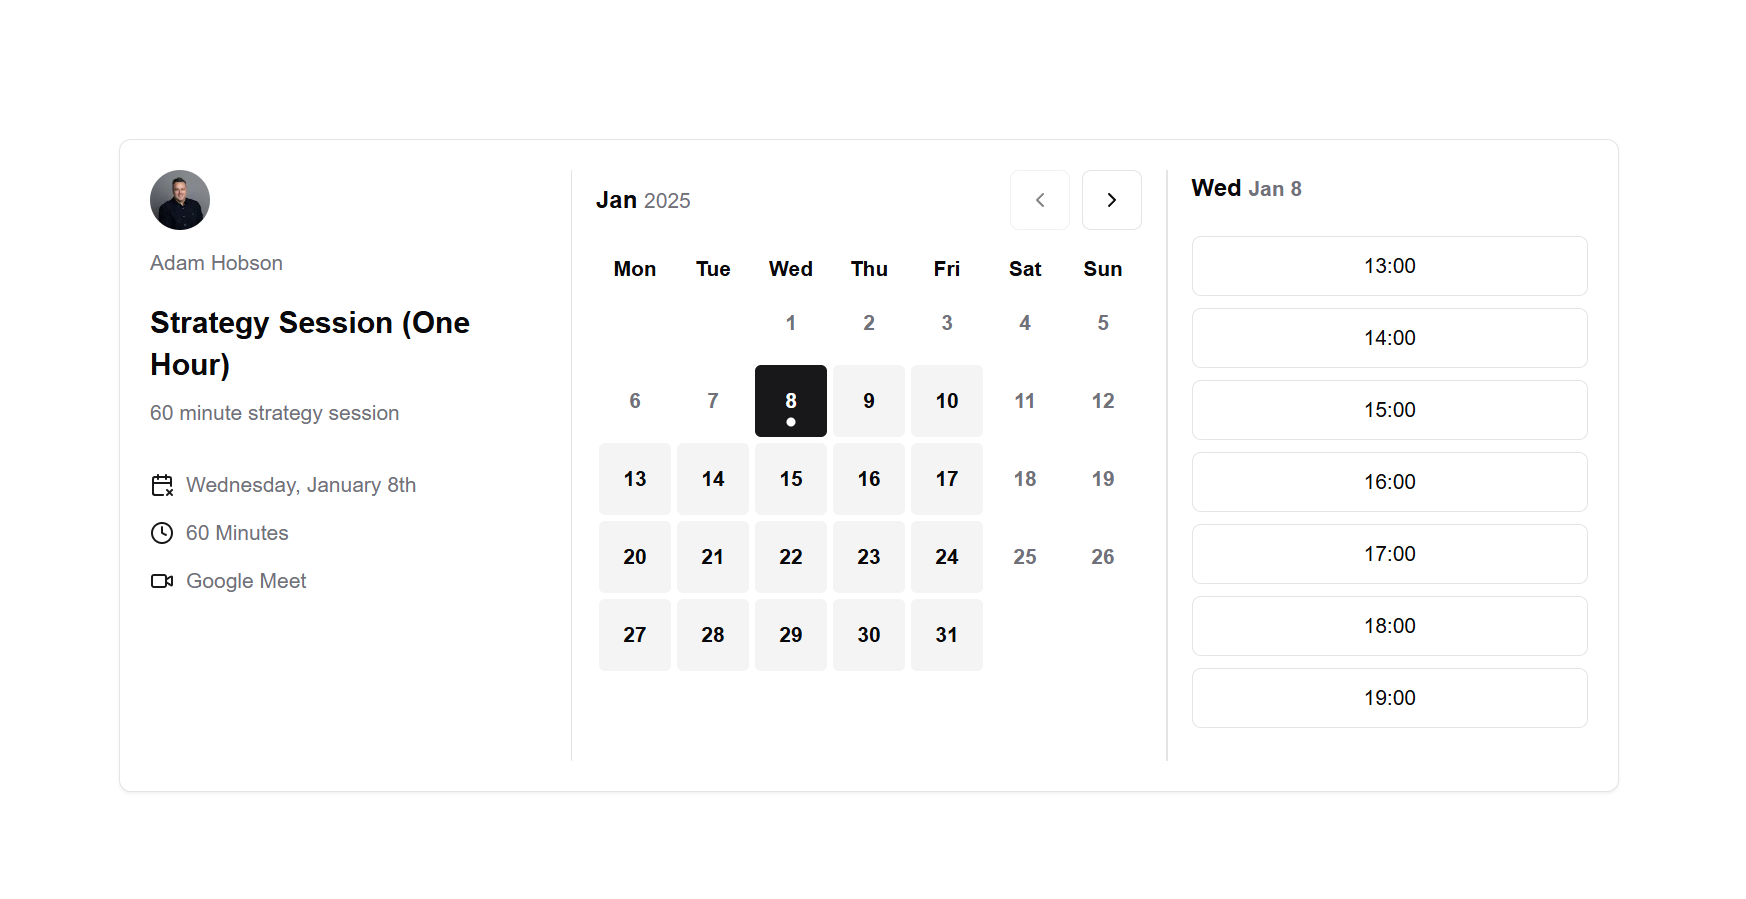
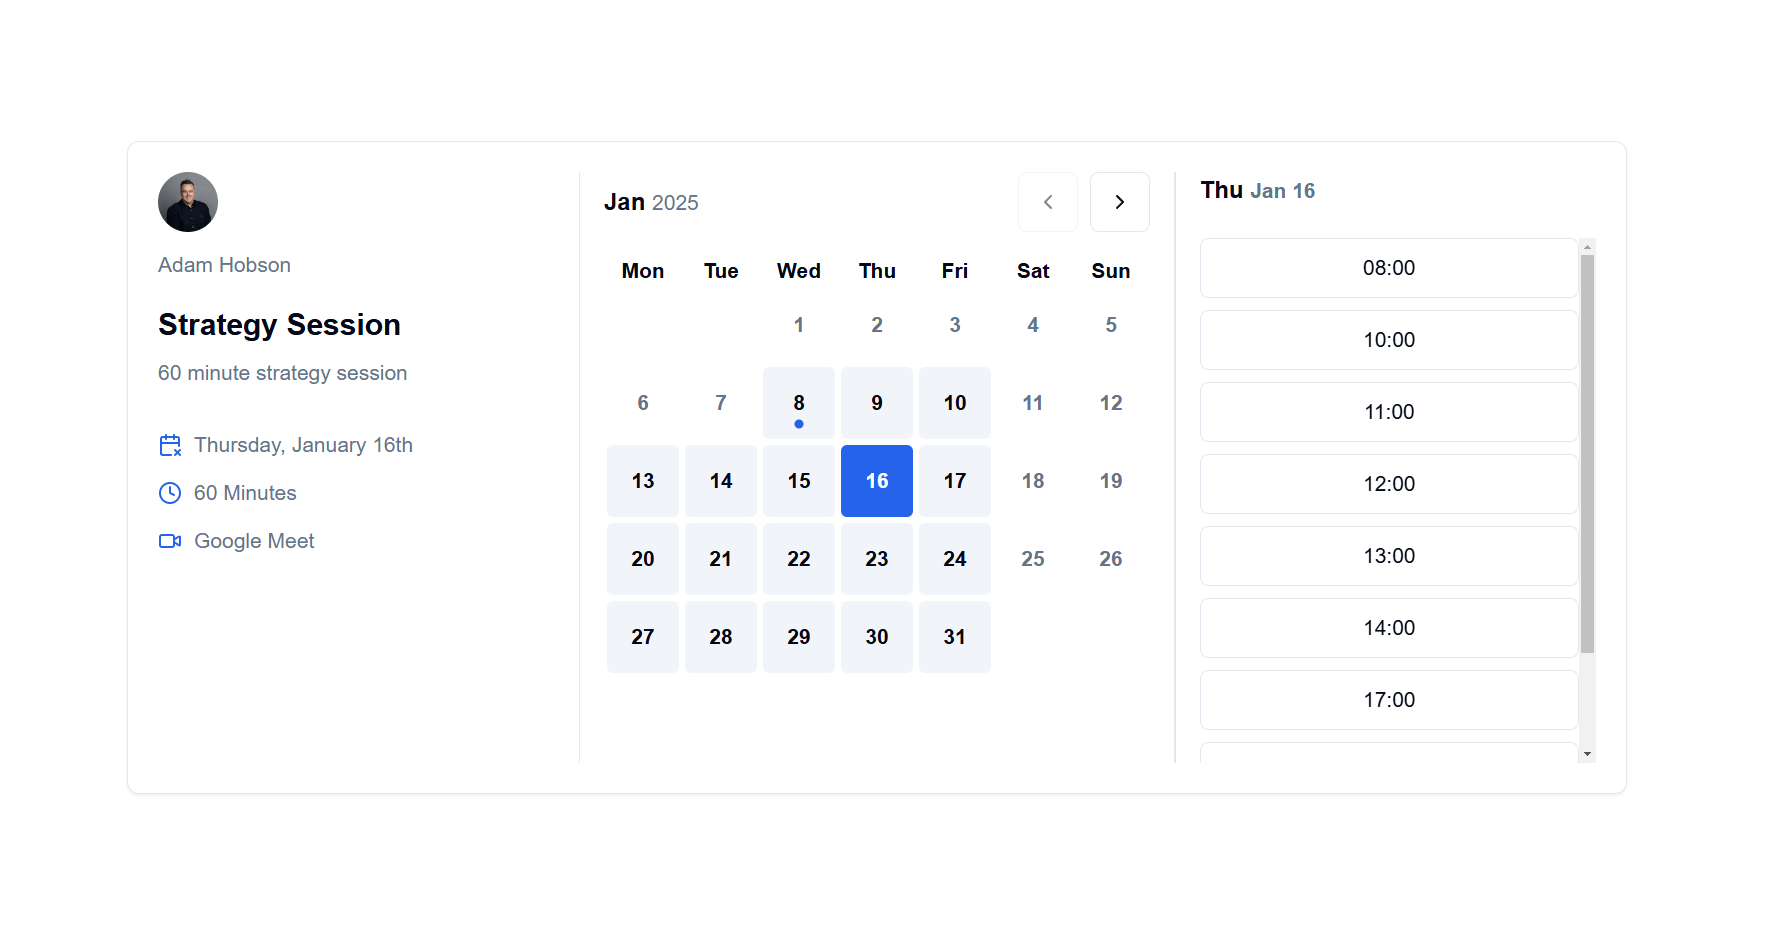
Minor UI update

diff --git a/app/components/DashboardLinks.tsx b/app/components/DashboardLinks.tsx
@@ -1,58 +1,73 @@
-'use client'
+"use client";
 
 import { cn } from "@/lib/utils";
-import { CalendarCheck, HomeIcon, LucideProps, SettingsIcon, Users2 } from "lucide-react";
+import {
+  CalendarCheck,
+  HomeIcon,
+  LucideProps,
+  SettingsIcon,
+  Users2,
+} from "lucide-react";
 import Link from "next/link";
 import { usePathname } from "next/navigation";
 import { ForwardRefExoticComponent } from "react";
 import { RefAttributes } from "react";
 
 interface iAppProps {
-    id: number;
-    name: string;
-    href: string;
-    icon: ForwardRefExoticComponent<Omit<LucideProps, "ref"> & RefAttributes<SVGSVGElement>>;
+  id: number;
+  name: string;
+  href: string;
+  icon: ForwardRefExoticComponent<
+    Omit<LucideProps, "ref"> & RefAttributes<SVGSVGElement>
+  >;
 }
 
 export const dashboardLinks: iAppProps[] = [
-    {
-        id: 0,
-        name: 'Event Types',
-        href: '/dashboard',
-        icon: HomeIcon
-    },
-    {
-        id: 1,
-        name: "Meetings",
-        href: '/dashboard/meetings',
-        icon: Users2,
-     },
-     {
-        id: 2,
-        name: "Availability",
-        href: '/dashboard/availability',
-        icon: CalendarCheck,
-     },
-     {
-        id: 3,
-        name: "Settings",
-        href: '/dashboard/settings',
-        icon: SettingsIcon,
-     }
-]
+  {
+    id: 0,
+    name: "Event Types",
+    href: "/dashboard",
+    icon: HomeIcon,
+  },
+  {
+    id: 1,
+    name: "Meetings",
+    href: "/dashboard/meetings",
+    icon: Users2,
+  },
+  {
+    id: 2,
+    name: "Availability",
+    href: "/dashboard/availability",
+    icon: CalendarCheck,
+  },
+  {
+    id: 3,
+    name: "Settings",
+    href: "/dashboard/settings",
+    icon: SettingsIcon,
+  },
+];
 
 export function DashboardLinks() {
-    const pathname = usePathname();
+  const pathname = usePathname();
   return (
     <>
-        {dashboardLinks.map((link) => (
-            <Link className={cn(
-                pathname === link.href ? 'text-primary bg-primary/10' : 'text-muted-foreground hover:text-foreground', "flex items-center gap-6 rounded-md px-2 py-1.5 hover:bg-accent transition-colors duration-200 ease-in-out"
-            )}href={link.href} key={link.id}>
-                <link.icon className="size-4" />
-                <span className="text-sm">{link.name}</span>
-            </Link>
-        ))}
+      {dashboardLinks.map((link) => (
+        <Link
+          className={cn(
+            pathname === link.href
+              ? "text-primary bg-primary/10"
+              : "text-muted-foreground hover:text-foreground",
+            "flex items-center gap-6 rounded-md px-2 py-1.5 hover:bg-accent transition-colors duration-200 ease-in-out mt-2"
+          )}
+          href={link.href}
+          key={link.id}
+        >
+          <link.icon className="size-4" />
+          <span className="text-md">{link.name}</span>
+        </Link>
+      ))}
     </>
-  )
+  );
 }

diff --git a/app/globals.css b/app/globals.css
@@ -9,24 +9,24 @@ body {
 @layer base {
   :root {
     --background: 0 0% 100%;
-    --foreground: 240 10% 3.9%;
+    --foreground: 222.2 84% 4.9%;
     --card: 0 0% 100%;
-    --card-foreground: 240 10% 3.9%;
+    --card-foreground: 222.2 84% 4.9%;
     --popover: 0 0% 100%;
-    --popover-foreground: 240 10% 3.9%;
-    --primary: 240 5.9% 10%;
-    --primary-foreground: 0 0% 98%;
-    --secondary: 240 4.8% 95.9%;
-    --secondary-foreground: 240 5.9% 10%;
-    --muted: 240 4.8% 95.9%;
-    --muted-foreground: 240 3.8% 46.1%;
-    --accent: 240 4.8% 95.9%;
-    --accent-foreground: 240 5.9% 10%;
+    --popover-foreground: 222.2 84% 4.9%;
+    --primary: 221.2 83.2% 53.3%;
+    --primary-foreground: 210 40% 98%;
+    --secondary: 210 40% 96.1%;
+    --secondary-foreground: 222.2 47.4% 11.2%;
+    --muted: 210 40% 96.1%;
+    --muted-foreground: 215.4 16.3% 46.9%;
+    --accent: 210 40% 96.1%;
+    --accent-foreground: 222.2 47.4% 11.2%;
     --destructive: 0 84.2% 60.2%;
-    --destructive-foreground: 0 0% 98%;
-    --border: 240 5.9% 90%;
-    --input: 240 5.9% 90%;
-    --ring: 240 5.9% 10%;
+    --destructive-foreground: 210 40% 98%;
+    --border: 214.3 31.8% 91.4%;
+    --input: 214.3 31.8% 91.4%;
+    --ring: 221.2 83.2% 53.3%;
     --radius: 0.5rem;
     --chart-1: 12 76% 61%;
     --chart-2: 173 58% 39%;
@@ -36,25 +36,25 @@ body {
   }
 
   .dark {
-    --background: 240 10% 3.9%;
-    --foreground: 0 0% 98%;
-    --card: 240 10% 3.9%;
-    --card-foreground: 0 0% 98%;
-    --popover: 240 10% 3.9%;
-    --popover-foreground: 0 0% 98%;
-    --primary: 0 0% 98%;
-    --primary-foreground: 240 5.9% 10%;
-    --secondary: 240 3.7% 15.9%;
-    --secondary-foreground: 0 0% 98%;
-    --muted: 240 3.7% 15.9%;
-    --muted-foreground: 240 5% 64.9%;
-    --accent: 240 3.7% 15.9%;
-    --accent-foreground: 0 0% 98%;
+    --background: 222.2 84% 4.9%;
+    --foreground: 210 40% 98%;
+    --card: 222.2 84% 4.9%;
+    --card-foreground: 210 40% 98%;
+    --popover: 222.2 84% 4.9%;
+    --popover-foreground: 210 40% 98%;
+    --primary: 217.2 91.2% 59.8%;
+    --primary-foreground: 222.2 47.4% 11.2%;
+    --secondary: 217.2 32.6% 17.5%;
+    --secondary-foreground: 210 40% 98%;
+    --muted: 217.2 32.6% 17.5%;
+    --muted-foreground: 215 20.2% 65.1%;
+    --accent: 217.2 32.6% 17.5%;
+    --accent-foreground: 210 40% 98%;
     --destructive: 0 62.8% 30.6%;
-    --destructive-foreground: 0 0% 98%;
-    --border: 240 3.7% 15.9%;
-    --input: 240 3.7% 15.9%;
-    --ring: 240 4.9% 83.9%;
+    --destructive-foreground: 210 40% 98%;
+    --border: 217.2 32.6% 17.5%;
+    --input: 217.2 32.6% 17.5%;
+    --ring: 224.3 76.3% 48%;
     --chart-1: 220 70% 50%;
     --chart-2: 160 60% 45%;
     --chart-3: 30 80% 55%;

diff --git a/app/components/Features.tsx b/app/components/Features.tsx
@@ -2,34 +2,34 @@ import { CloudRain } from "lucide-react";
 
 const features = [
   {
-    name: "Sign up for free",
+    name: "Free in Beta",
     description:
-      "Lorem ipsum dolor sit amet, consetetur sadipscing elitr, sed diam nonumy eirmod tempor invidunt ut labore et dolore magna.",
+      "mycalendar is free while in Beta. No credit card required. When we launch, you will get the opportunity to use mycalendar free forever.",
     icon: CloudRain,
   },
   {
-    name: "Balzing fast",
+    name: "Blazing fast",
     description:
-      "Lorem ipsum dolor sit amet, consetetur sadipscing elitr, sed diam nonumy eirmod tempor invidunt ut labore et dolore magna.",
+      "Schedule meetings in seconds, not minutes. Our streamlined interface eliminates back-and-forth emails and lets your clients book instantly based on your availability.",
     icon: CloudRain,
   },
   {
     name: "Super secure with Nylas",
     description:
-      "Lorem ipsum dolor sit amet, consetetur sadipscing elitr, sed diam nonumy eirmod tempor invidunt ut labore et dolore magna.",
+      "Your calendar data is protected by enterprise-grade security. Powered by Nylas, we use OAuth 2.0 and never store your credentials, ensuring your information stays private.",
     icon: CloudRain,
   },
   {
     name: "Easy to use",
     description:
-      "Lorem ipsum dolor sit amet, consetetur sadipscing elitr, sed diam nonumy eirmod tempor invidunt ut labore et dolore magna.",
+      "Share your booking link and let clients schedule meetings that work for everyone. Automatic timezone detection and calendar sync make scheduling effortless.",
     icon: CloudRain,
   },
 ];
 
 export function Features() {
   return (
-    <div className="py-24 ">
+    <div className="py-12 ">
       <div className="max-w-2xl mx-auto lg:text-center">
         <p className="font-semibold leading-7 text-primary">Schedule faster</p>
         <h1 className="mt-2 text-3xl font-bold tracking-tight sm:text-4xl">

diff --git a/app/layout.tsx b/app/layout.tsx
@@ -19,8 +19,8 @@ const geistMono = localFont({
 });
 
 export const metadata: Metadata = {
-  title: "Create Next App",
-  description: "Generated by create next app",
+  title: "mycalendar - Super Simple Scheduling",
+  description: "Calendar scheduling for busy people",
 };
 
 export default function RootLayout({
@@ -52,12 +52,12 @@ export default function RootLayout({
           disableTransitionOnChange
         >
           <NextSSRPlugin
-          /**
-           * The `extractRouterConfig` will extract **only** the route configs
-           * from the router to prevent additional information from being
-           * leaked to the client. The data passed to the client is the same
-           * as if you were to fetch `/api/uploadthing` directly.
-           */
+            /**
+             * The `extractRouterConfig` will extract **only** the route configs
+             * from the router to prevent additional information from being
+             * leaked to the client. The data passed to the client is the same
+             * as if you were to fetch `/api/uploadthing` directly.
+             */
             routerConfig={extractRouterConfig(ourFileRouter)}
           />
           {children}

diff --git a/app/components/Hero.tsx b/app/components/Hero.tsx
@@ -9,17 +9,17 @@ export function Hero() {
       <div className="relative items-center w-full py-12 lg:py-20">
         <div className="text-center">
           <span className="text-sm text-primary font-medium tracking-tight bg-primary/10 px-4 py-2 rounded-full">
-            Introducing MyCalendar 1.0 🎉
+            Introducing mycalendar 1.0 🎉
           </span>
 
           <h1 className="mt-8 text-4xl sm:text-6xl md:text-7xl lg:text-8xl font-medium leading-none">
-            Scheduling made{" "}
-            <span className="block text-primary">super easy!</span>
+            Super simple <span className="block text-primary">scheduling.</span>
           </h1>
 
           <p className="max-w-xl mx-auto mt-4   lg:text-lg text-muted-foreground ">
-            Scheduling a meeting can be a pain. But we at MyCalendar makes it
-            easy for your clients to schedule meetings with you.
+            Scheduling meetings can be a pain but mycalendar makes it easy.
+            Create an event, share a link and let your clients book times with
+            you.
           </p>
           <div className=" mt-5 mb-12">
             <AuthModal />

diff --git a/app/components/Cta.tsx b/app/components/Cta.tsx
@@ -1,18 +1,18 @@
-import { Button } from "@/components/ui/button";
+import AuthModal from "./AuthModal";
 
 export function CTA() {
   return (
     <div className="mx-auto max-w-7xl sm:px-6 lg:px-8 my-20">
       <div className="relative isolate overflow-hidden  px-6 py-20 text-center sm:rounded-3xl sm:border  sm:px-16 sm:shadow-sm">
         <h2 className="mx-auto max-w-2xl text-3xl font-bold tracking-tight  sm:text-4xl">
-          Start using MyCalendar today!
+          Start using mycalendar today!
         </h2>
         <h3 className="mx-auto mt-6 max-w-xl text-lg leading-8 text-muted-foreground">
-          MyCalendar makes it easy for your clients to scheduale a meeting with
+          mycalendar makes it easy for your clients to scheduale a meeting with
           you clients.
         </h3>
         <div className="mt-8 flex items-center justify-center gap-x-6">
-          <Button>Get Started Today</Button>
+          <AuthModal />
         </div>
         {/* gradient svg */}
         <svg

diff --git a/app/components/AuthModal.tsx b/app/components/AuthModal.tsx
@@ -17,14 +17,14 @@ export default function AuthModal() {
   return (
     <Dialog>
       <DialogTrigger asChild>
-        <Button>Try for Free</Button>
+        <Button>Free while in Beta</Button>
       </DialogTrigger>
       <DialogContent className="sm:max-w-[360px]">
         <DialogTitle className="sr-only">Sign in to MyCalendar</DialogTitle>
         <DialogHeader className="flex flex-row items-center gap-2 justify-center">
           <Image src={Logo} alt="logo" className="size-10" />
           <h4 className="font-semibold text-xl">
-            My<span className="text-primary">Calendar</span>
+            my<span className="text-primary">calendar</span>
           </h4>
         </DialogHeader>
         <div className="flex flex-col my-5 gap-2">

diff --git a/app/components/navbar.tsx b/app/components/navbar.tsx
@@ -10,9 +10,9 @@ export function Navbar() {
   return (
     <div className="flex justify-between items-center p-5">
       <Link href="/" className="flex items-center gap-2">
-        <Image src={Logo} alt="logo" className="size-10" />
-        <h4 className="font-semibold text-xl">
-          My<span className="text-zinc-500">Calendar</span>
+        <Image src={Logo} alt="logo" className="size-6 dark:invert" />
+        <h4 className="font-semibold text-2xl">
+          my<span className="text-primary">calendar</span>
         </h4>
       </Link>
       <div className="hidden md:flex md:justify-end md:space-x-4">

diff --git a/app/page.tsx b/app/page.tsx
@@ -1,7 +1,6 @@
 import { CTA } from "./components/Cta";
 import { Features } from "./components/Features";
 import { Hero } from "./components/Hero";
-import { Logos } from "./components/Logos";
 import { Navbar } from "./components/navbar";
 import { Testimonial } from "./components/Testimonials";
 import { auth } from "./lib/auth";
@@ -18,7 +17,6 @@ export default async function Home() {
     <div className="max-w-7xl mx-auto px-4 sm:px-6 lg:px-8">
       <Navbar />
       <Hero />
-      <Logos />
       <Features />
       <Testimonial />
       <CTA />

diff --git a/app/dashboard/layout.tsx b/app/dashboard/layout.tsx
@@ -56,7 +56,7 @@ export default async function DashboardLayout({
               <Link href="/" className="flex items-center gap-2">
                 <Image src={Logo} alt="logo" className="size-8" />
                 <p className="text-xl font-semibold">
-                  Ok<span className="text-zinc-500">Book</span>Me
+                  my<span className="text-primary">calendar</span>
                 </p>
               </Link>
             </div>

diff --git a/app/components/Logos.tsx b/app/components/Logos.tsx
@@ -7,7 +7,7 @@ export function Logos() {
   return (
     <div className="py-10">
       <h2 className="text-center text-lg font-semibold leading-7">
-        Trusted by the best companies in the world
+        Trusted by the best
       </h2>
       <div className="mt-10 grid max-w-lg mx-auto grid-cols-4 items-center gap-x-8 gap-y-10 sm:max-w-xl sm:grid-cols-6 sm:gap-x-10 lg:mx-0 lg:max-w-none lg:grid-cols-5">
         <Image

diff --git a/app/components/Testimonials.tsx b/app/components/Testimonials.tsx
@@ -25,7 +25,7 @@ export function Testimonial() {
                 />
               </svg>
               <span className="relative z-10 ">
-                Wow CalMarshal is the best platform i have ever used. Definitely
+                Wow mycalendar is the best platform i have ever used. Definitely
                 Recommend it to you guys, try it out!
               </span>
             </p>
